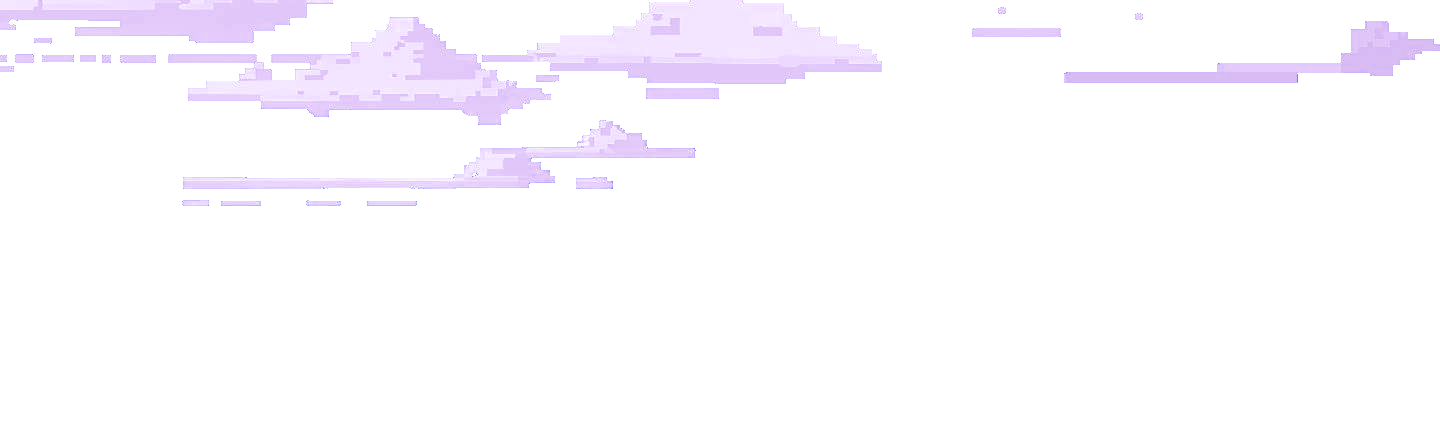
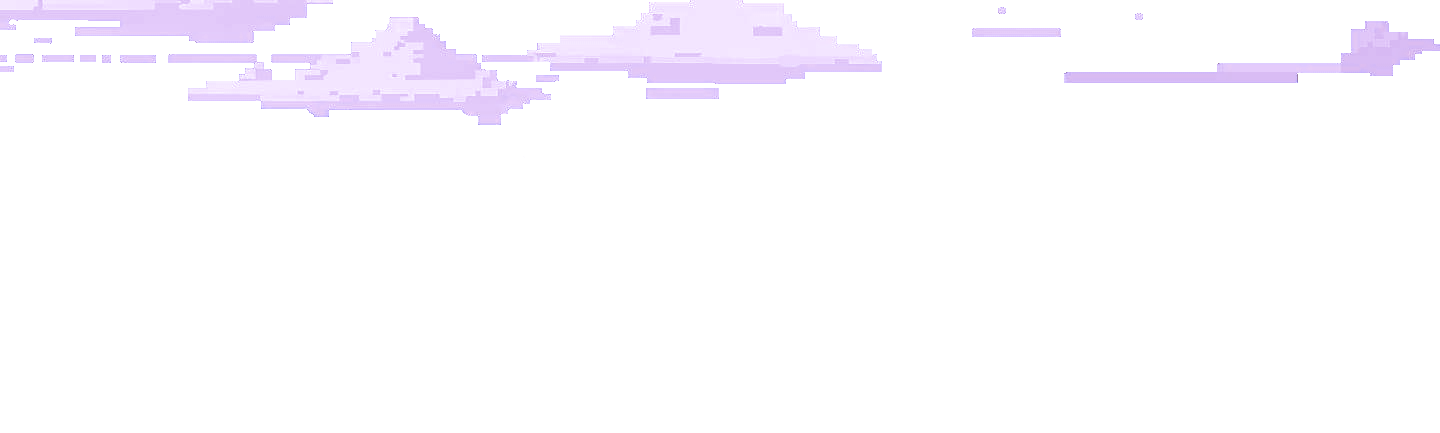
Added clouds which move at different speed.

Changed region(s): [[0.125, 0.2702, 0.5, 0.4804]]

diff --git a/characters.py b/characters.py
@@ -168,5 +168,5 @@ class Background_clouds(pygame.sprite.Sprite):
         self.direction = pygame.math.Vector2(0,0)
         self.rect = self.image.get_rect(topleft = pos)
     def update(self,x_shift,y_shift):
-        self.rect.x += (x_shift * 0.3)
-        self.rect.y += (y_shift * 0.3)
+        self.rect.x += (x_shift * 0.6)
+        self.rect.y += (y_shift * 0.6)

diff --git a/level.py b/level.py
@@ -36,6 +36,7 @@ class Level:
                         tile = Tile((x,y),tile_size,column)
                         self.tiles.add(tile)
         self.background.add(background)
+        self.background_clouds.add(background_clouds)
 
     def camera_scrollx(self):
         player = self.player.sprite
